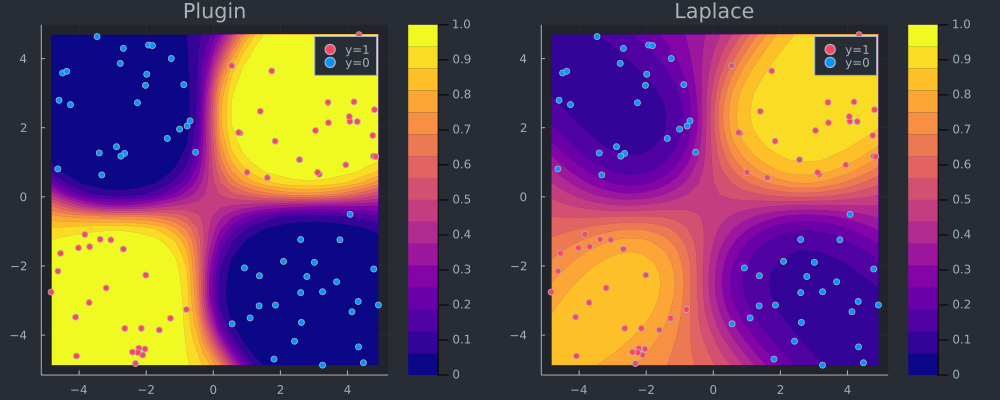
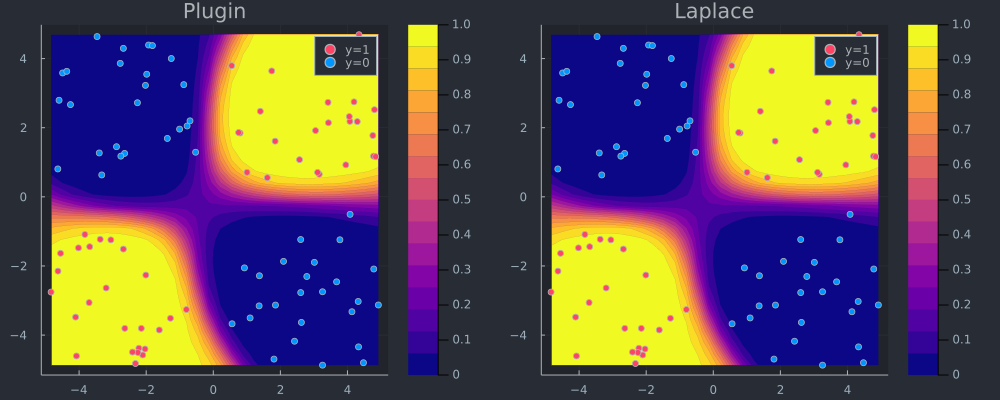
adapted Bayesian logit code to be in line with code for neural nets. prior precision works in the expected direction. But it seems that the Empirical fisher is perhaps somewhat small? If prior precision is not high enough, posterior uncertainty alway ends up being quite large. Need to compare to Bay

Changed region(s): [[0.527, 0.06, 0.899, 0.93], [0.031, 0.09, 0.403, 0.93], [0.341, 0.42, 0.403, 0.45]]

diff --git a/docs/src/quick_start.md b/docs/src/quick_start.md
@@ -1,17 +1,11 @@
----
-pagetitle: quick_start
-toc-title: Table of contents
----
-
-``` @meta
+```@meta
 CurrentModule = BayesLaplace
 ```
 
 # Quick start
 
-<div class="cell" execution_count="166">
 
-``` julia
+```julia
 # Import libraries.
 using Flux, Plots, Random, PlotThemes, Statistics, BayesLaplace
 theme(:juno)
@@ -19,15 +13,12 @@ using Logging
 disable_logging(Logging.Info)
 ```
 
-<div class="cell-output-display">
 
     LogLevel(1)
 
-</div>
 
-</div>
 
-``` julia
+```julia
 # Number of points to generate.
 N = 100
 M = round(Int, N / 4)
@@ -60,10 +51,9 @@ end
 plt = plot_data!(plt,X',ts);
 ```
 
-<div class="cell" execution_count="168">
 
-``` julia
-function build_model(;input_dim=2,n_hidden=32,output_dim=1)
+```julia
+function build_model(;input_dim=2,n_hidden=128,output_dim=1)
     
     # Params:
     W₁ = input_dim
@@ -81,32 +71,24 @@ end
 nn = build_model()
 ```
 
-<div class="cell-output-display">
 
     Chain(
-      Dense(2, 32, σ),                      [90m# 96 parameters[39m
-      Dense(32, 1),                         [90m# 33 parameters[39m
-    )[90m                   # Total: 4 arrays, [39m129 parameters, 772 bytes.
+      Dense(2, 128, σ),                     [90m# 384 parameters[39m
+      Dense(128, 1),                        [90m# 129 parameters[39m
+    )[90m                   # Total: 4 arrays, [39m513 parameters, 2.254 KiB.
 
-</div>
 
-</div>
 
-<div class="cell" execution_count="169">
-
-``` julia
-λ = 1e-10
+```julia
+λ = 0.01
 ```
 
-<div class="cell-output-display">
 
-    1.0e-10
+    0.01
 
-</div>
 
-</div>
 
-``` julia
+```julia
 sqnorm(x) = sum(abs2, x)
 weight_regularization(λ=λ) = 1/2 * λ^2 * sum(sqnorm, Flux.params(nn))
 
@@ -115,7 +97,8 @@ ps = Flux.params(nn)
 data = zip(xs,ts);
 ```
 
-``` julia
+
+```julia
 using Flux.Optimise: update!, ADAM
 opt = ADAM()
 epochs = 200
@@ -143,7 +126,8 @@ gif(anim, "www/nn_training.gif");
 
 ![](www/nn_training.gif)
 
-``` julia
+
+```julia
 predictive(𝑴::Flux.Chain, X::AbstractArray) = Flux.σ.(nn(X))
 # Plot the posterior distribution with a contour plot.
 function plot_contour(X,y,𝑴;clegend=true,title="",length_out=30)
@@ -158,14 +142,16 @@ p_plugin = plot_contour(X',ts,nn;title="Plugin");
 
 ## Laplace appoximation
 
-``` julia
-la = laplace(nn, λ=0.1)
+
+```julia
+la = laplace(nn, λ=1000)
 fit!(la, data);
 predictive(𝑴::BayesLaplace.LaplaceRedux, X::AbstractArray) = predict(𝑴, X)
 p_laplace = plot_contour(X',ts,la;title="Laplace");
 ```
 
-``` julia
+
+```julia
 # Plot the posterior distribution with a contour plot.
 plt = plot(p_plugin, p_laplace, layout=(1,2), size=(1000,400));
 savefig(plt, "www/posterior_predictive.png")
